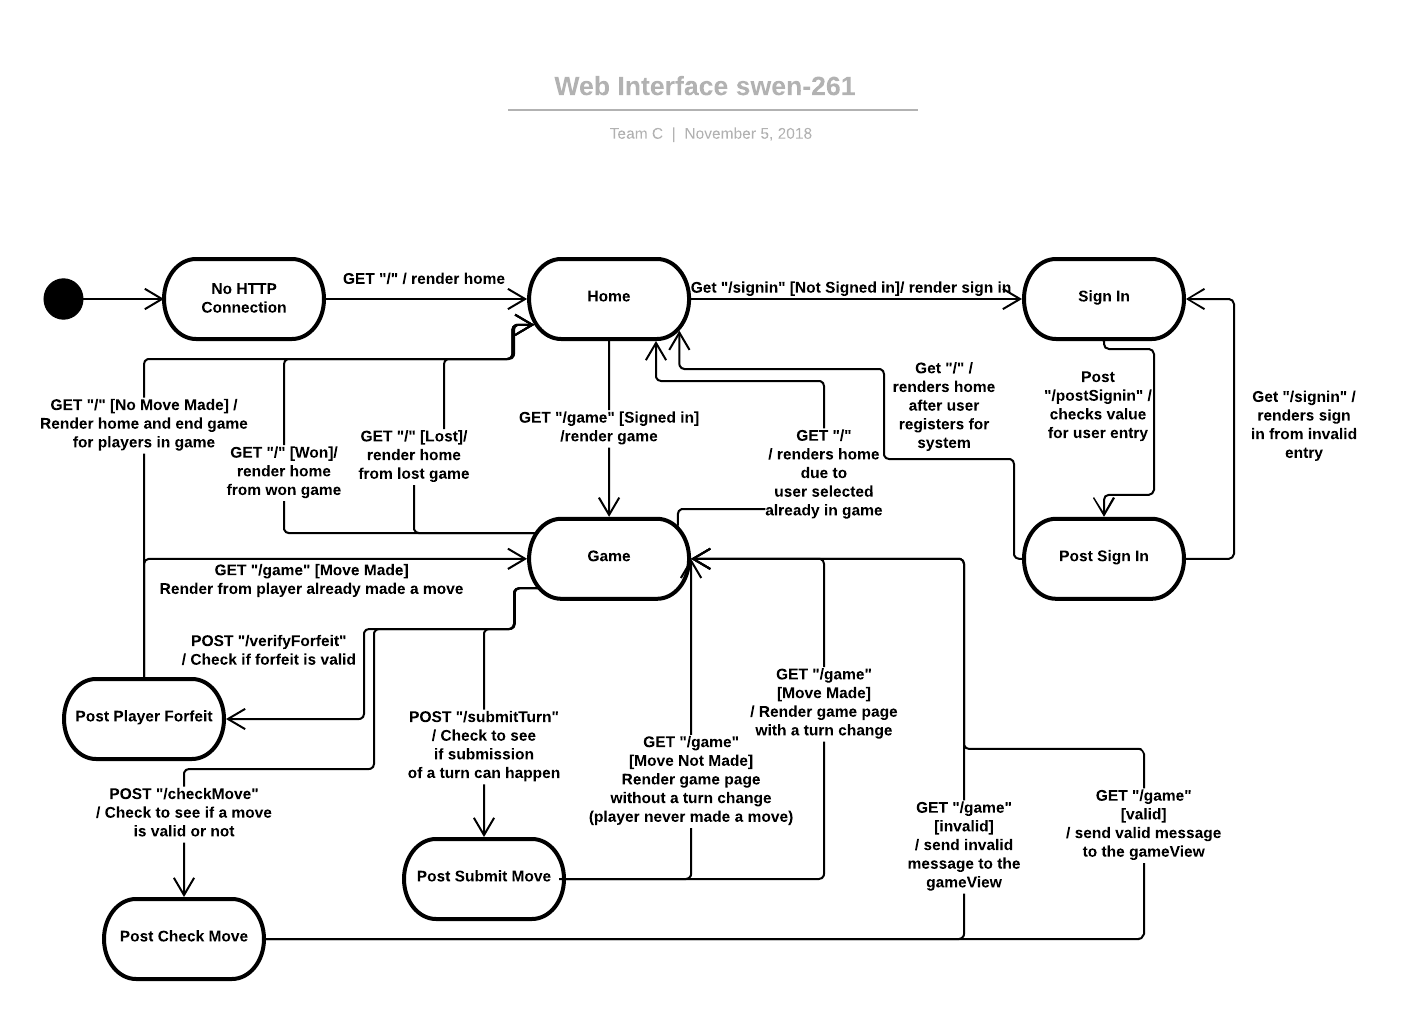
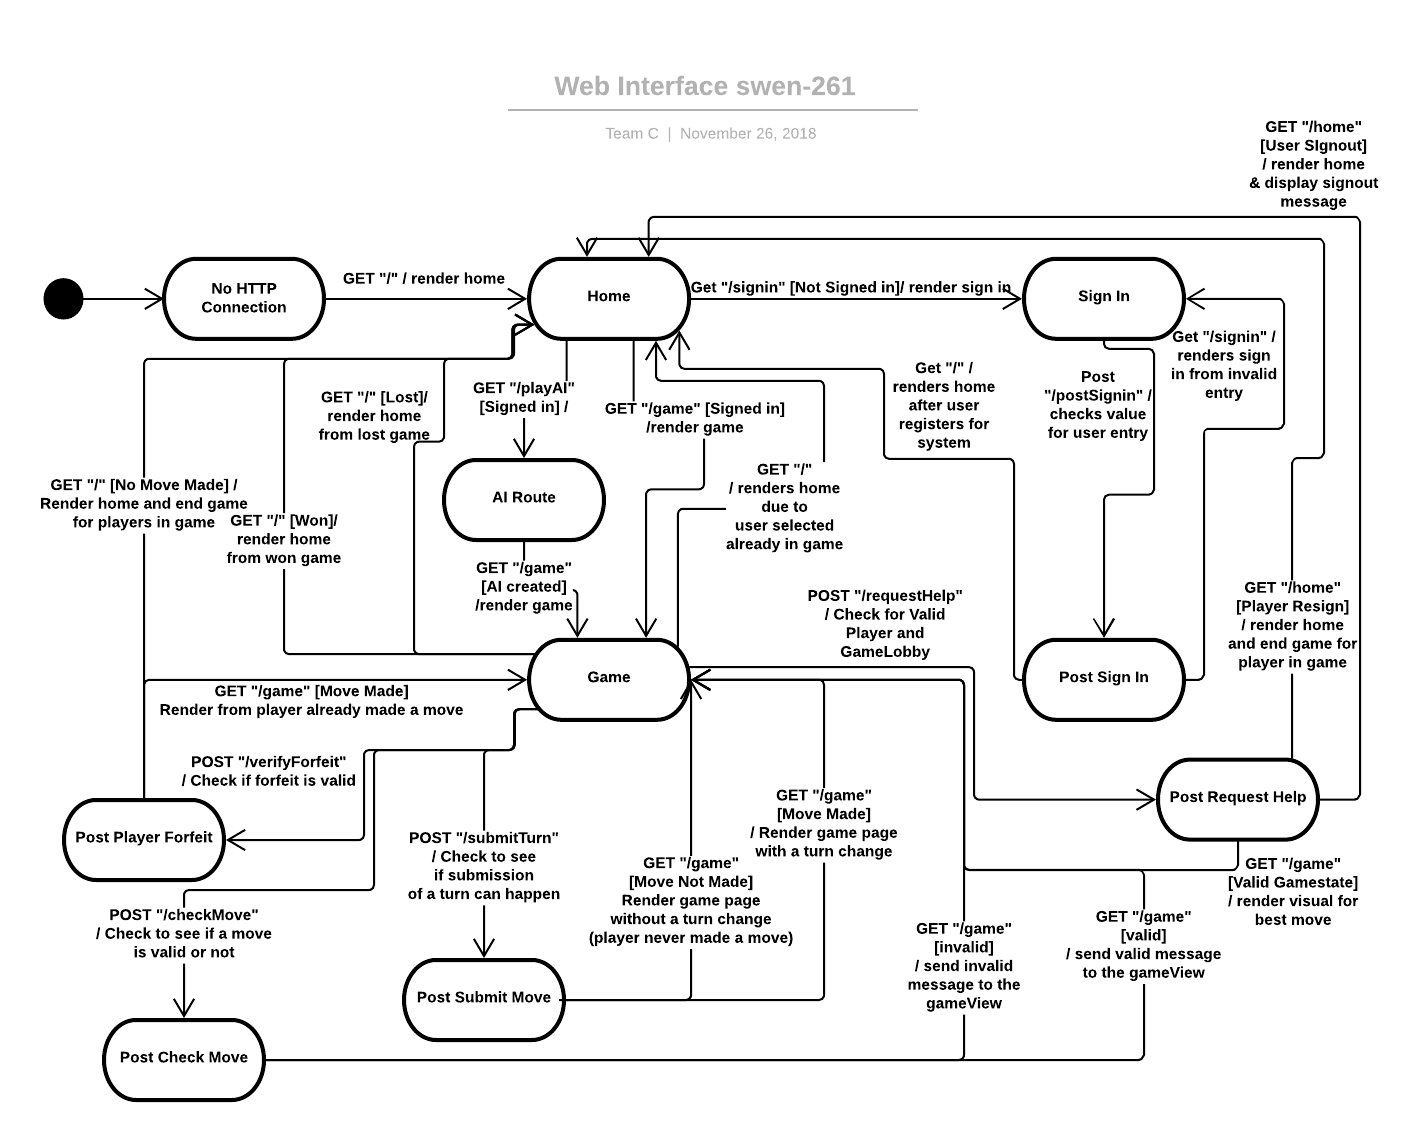
Updating design doc for sprint 3 release

Changed region(s): [[0.0306, 0.0913, 0.9801, 0.9735], [0.3675, 0.0608, 0.6432, 0.1521], [0.0306, 0.2434, 0.0613, 0.3346]]

diff --git a/docs/DesignDoc.md b/docs/DesignDoc.md
@@ -3,11 +3,6 @@ geometry: margin=1in
 ---
 # PROJECT Design Documentation
 
-<!-- _The following template provides the headings for your Design
- Documentation.  As you edit each section make sure you remove these
- commentary 'blockquotes'; the lines that start with a > character
- and appear in the generated PDF in italics._) -->
-
 ## Team Information
 * Team name: Team C
 * Team members
@@ -24,33 +19,48 @@ For this application, players are required to sign into the system and then can 
 When a match starts, the game is played using the American rules with the red player going first. Players can forefit the game at any point along with signout from the system at any point.
 
 ### Purpose
-> _Provide a very brief statement about the project and the most
-> important user group and user goals._
+The purpose of this project is to allow users to play the game of checkers against one another over the internet. 
+The game is focused on being accessible for anyone who has internet and would like to play the game.
+The goals of the project is to allow players to sign into the game and select another user to 
+play against from the lobby of players. Their new goal is to now play the game following the American Rules and hopefully win against their opponent. The user may also elect to log out or forfiet the game at any point.
 
 ### Glossary and Acronyms
-> _Provide a table of terms and acronyms._
 
 | Term | Definition |
 |------|------------|
 | VO | Value Object |
+| MVP | Minimal Viable Product |
 
 
 ## Requirements
 
 This section describes the features of the application.
 
-> _In this section you do not need to be exhaustive and list every
-> story.  Focus on top-level features from the Vision document and
-> maybe Epics and critical Stories._
-
 ### Definition of MVP
-> _Provide a simple description of the Minimum Viable Product._
+The MVP (or Minimal Viable Product) is made up of a few standard components. These are outlined below: 
+
+* Sign in/out: Players must be able to sign into and sign out of the system in order for a game to be played.
+* Checkers Game: Players must be able to play the game of checkers according to the American Rulebook. The game is made up of the following components:
+  * Piece movement: Being able to move a piece during a player's turn
+  * Jumping: Players are able to jump opponent's pieces
+  * Kinging: Players are able to king their piece by making it to the opposite end of the game board.
+* Resign: Players are able to resign from the game at any point and the game ends.
 
 ### MVP Features
-> _Provide a list of top-level Epics and/or Stories of the MVP._
+The MVP Features were broken down into multiple different stories for competion. For our team we broke them down in the following fashion:
+
+* Sign in/out: The ability for users to be able to sign into and sign out of the game.
+* Piece Movement: The ability for pieces to be able to move forwards or preform a jump. The jump can either be a single jump or a multi-jump.
+* King Movement: The ability for pieces that are of the king type to move forwards or backwards along with preform single and multi jumps forwards and backwards. 
+* Resign: The ability for the player to resign the game at any point in time and the game ends once a player resigns. 
 
 ### Roadmap of Enhancements
-> _Provide a list of top-level features in the order you plan to consider them._
+* AI Player: Allows a user to connect to a game and play against the computer (or AI Player) rather than another human being. The AI Player for the system attemtps to make the best move possible based upon the following factors:
+  * If the move makes a jump or not
+  * If a jump is possible, ensure it is the longest one possible
+  * If the move results in the player's piece being eaten
+  * If the move results in a piece turning into a king piece
+* Player Help: Allows a user to request help during their turn. The player, once they have requested help by clicking a button, sees a space highlighted in green. This move is the best move the player can make. The best move is determined by the factors above.
 
 
 ## Application Domain
@@ -59,7 +69,7 @@ This section describes the application domain.
 
 ![The WebCheckers Domain Model](SWEN-261 Domain Model Diagram.png)
 
-The domain model for this project centers around players who sign into the application to play games of checkers against one another. 
+The domain model for this project centers around players who sign into the application to play games of checkers against one another. As noted in the diagram, the player can be a regular user or an AI player that the user selects in the game lobby. Once selected, the game is played on a board made up of checkers pieces for each players. At any time during a players turn they can ask for help. The pieces are assigned a color matching the color the player is assigned to for the game. Pieces are either single or king pieces based upon their movement during the game.
 Each game of checkers is played on a board complete with two different colored spaces and pieces. 
 
 ## Architecture and Design
@@ -73,8 +83,8 @@ The following Tiers/Layers model shows a high-level view of the webapp's archite
 ![The Tiers & Layers of the Architecture](architecture-tiers-and-layers.png)
 
 As a web application, the user interacts with the system using a
-browser.  The client-side of the UI is composed of HTML pages with
-some minimal CSS for styling the page.  There is also some JavaScript
+browser. The client-side of the UI is composed of HTML pages with
+some minimal CSS for styling the page. There is also some JavaScript
 that has been provided to the team by the architect.
 
 The server-side tiers include the UI Tier that is composed of UI Controllers and Views.
@@ -93,6 +103,7 @@ with the WebCheckers application.
 The Web Interface Statechart defines the connection routes for the system. Players connect to the game and are directed to the home screen to begin.
 Players then have the option to sign into the system and play games of checkers against other signed in players.
 Throughout the game, the system is constantly updating to validate moves, complete piece movements, and switch turns until a pair of players complete the game via forfeit or win/loss.
+Players have the option to request help during their turn and the system will return the best move possible for them to make.
 
 ### UI Tier
 > _Provide a summary of the Server-side UI tier of your architecture.
